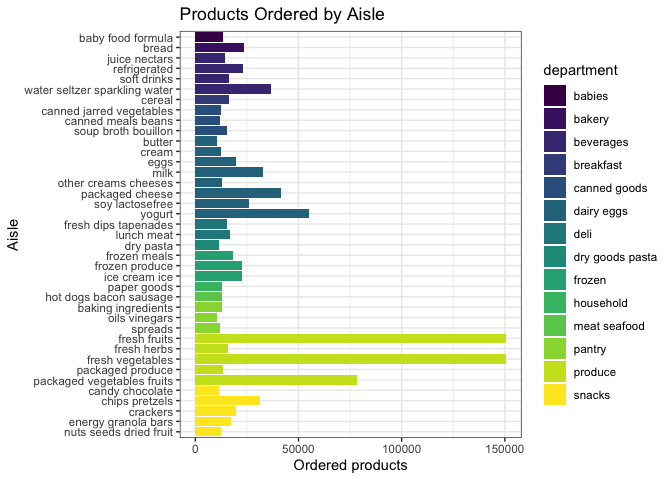
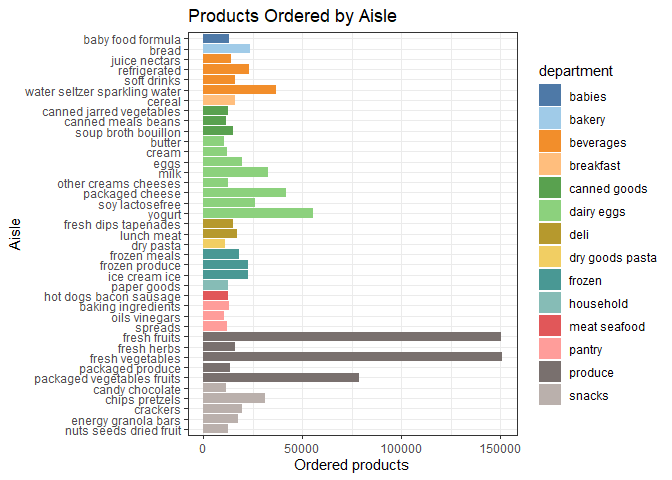
Finished problem 2. Added a results folder.

diff --git a/p8105_hw3_wd2328.md b/p8105_hw3_wd2328.md
@@ -6,6 +6,9 @@ William Donovan
 # Loading packages
 library(tidyverse)
 library(viridis)
+library(paletteer)
+library(ggridges)
+library(patchwork)
 ```
 
 # Problem 1
@@ -137,7 +140,7 @@ instacart |>
   mutate(aisle = fct_reorder(aisle, department)) |>
   ggplot(aes(y = aisle, x = ordered_items, fill = department)) +
   geom_col() +
-  scale_fill_viridis(name = "department", discrete = TRUE) +
+  scale_fill_manual(values = paletteer_d("ggthemes::Tableau_20")) +
   scale_y_discrete(limits = rev) +
   theme_bw() +
   labs(
@@ -147,6 +150,7 @@ instacart |>
 ```
 
 ![](p8105_hw3_wd2328_files/figure-gfm/unnamed-chunk-5-1.png)<!-- -->
+
 This visualization highlights the most heavily trafficked aisles across
 departments. As pointed out earlier, produce is the most commonly
 ordered from department. This is followed by dairy eggs. It’s also
@@ -295,3 +299,154 @@ problem2_df |>
 
 There were 171 ZIP codes in the dataset which were observed fewer than
 10 times.
+
+Due to the nature of variations in size and location, some ZIP codes may
+have more data than others. If there’s not a large enough rental sample
+size, the Zillow Observed Rent Index (ZORI) may not be accurate and is
+not reported. This is why some ZIP codes have ZORI observations for
+every month and others have very few.
+
+Below is the average rental price over time in each borough
+
+``` r
+problem2_df |>
+  filter(!is.na(zillow_observed_rent_index)) |>
+  group_by(county, 
+           Year = year(date)) |>
+  summarise(mean_rent = mean(zillow_observed_rent_index),
+            .groups = "drop") |>
+  pivot_wider(names_from = county,
+              values_from = mean_rent) |>
+  rename(Brooklyn = Kings,
+         Manhattan = 'New York',
+         'Staten Island' = Richmond) |>
+  knitr::kable()
+```
+
+| Year |    Bronx | Brooklyn | Manhattan |   Queens | Staten Island |
+|-----:|---------:|---------:|----------:|---------:|--------------:|
+| 2015 | 1759.595 | 2492.928 |  3022.042 | 2214.707 |            NA |
+| 2016 | 1520.194 | 2520.357 |  3038.818 | 2271.955 |            NA |
+| 2017 | 1543.599 | 2545.828 |  3133.848 | 2263.303 |            NA |
+| 2018 | 1639.430 | 2547.291 |  3183.703 | 2291.918 |            NA |
+| 2019 | 1705.589 | 2630.504 |  3310.408 | 2387.816 |            NA |
+| 2020 | 1811.443 | 2555.051 |  3106.517 | 2315.632 |      1977.608 |
+| 2021 | 1857.777 | 2549.890 |  3136.632 | 2210.787 |      2045.430 |
+| 2022 | 2054.267 | 2868.199 |  3778.375 | 2406.038 |      2147.436 |
+| 2023 | 2285.459 | 3015.184 |  3932.610 | 2561.615 |      2332.934 |
+| 2024 | 2496.896 | 3126.803 |  4078.440 | 2694.022 |      2536.442 |
+
+This table shows that rental prices have gone up every year since 2015,
+except for 2020, due to the Covid-19 pandemic. In 2020, rental prices
+decreased across New York City, but notably, the largest average
+decrease was in Manhattan. Staten Island does not have ZORI scores due
+to a lack of data from Richmond County before 2020.
+
+Comparing rental prices between ZIP codes over time:
+
+``` r
+# Set seed for randomized line plotting order
+set.seed(24)
+
+zip_code_rent = problem2_df |>
+  filter(!is.na(zillow_observed_rent_index)) |>
+  mutate(
+    Borough = case_match(county,
+      "New York" ~ "Manhattan",
+      "Richmond" ~ "Staten Island",
+      "Kings" ~ "Brooklyn",
+      .default = county)) |>
+  mutate(zip_code = forcats::fct_shuffle(as.factor(zip_code))) |>
+  ggplot(aes(x = date, 
+             y = zillow_observed_rent_index, 
+             group = zip_code)) +
+  geom_line(aes(color = Borough), 
+            linewidth = 0.8) +
+  scale_color_manual(values = c("Bronx" = "#4E79A7",
+                                "Brooklyn" = "#A0CBE8",
+                                "Manhattan" = "#F28E2B",
+                                "Queens" = "#E15759",
+                                "Staten Island" = "#59A14F"),
+                     name = "Borough") +
+  theme_bw() +
+  labs(
+    title = "NYC Rental Index by ZIP Code",
+    x = "Date",
+    y = "Zillow Observered Rent Index")
+
+zip_code_rent
+```
+
+![](p8105_hw3_wd2328_files/figure-gfm/unnamed-chunk-14-1.png)<!-- -->
+
+Each line in the plot above represents the rental index data of a single
+ZIP code in New York City. The lines are differentiated by color to
+designate which borough the ZIP code belongs to. The general trend is
+increasing rent. However, for nearly all NYC ZIP codes, there is a
+decrease in rent in 2020 due to the Covid-19 pandemic. This decrease is
+more pronounced in areas where rent is higher, such as Manhattan and
+Brooklyn ZIP codes. Rent for many ZIP codes in the Bronx, Queens, and
+Staten Island seemed to be less affected in 2020. From the plotted data,
+it can also be recognized that Manhattan has some of the most expensive
+areas, while the Bronx has some of the least.
+
+Distribution of average rental index from 2023:
+
+``` r
+rent_distribution = problem2_df |>
+  filter(!is.na(zillow_observed_rent_index),
+                year(date) == 2023) |>
+  mutate(
+    Borough = case_match(county,
+      "New York" ~ "Manhattan",
+      "Richmond" ~ "Staten Island",
+      "Kings" ~ "Brooklyn",
+      .default = county)) |>
+  group_by(zip_code, Borough) |>
+  summarise(mean_rent = mean(zillow_observed_rent_index),
+            .groups = "drop") |>
+  ggplot(aes(x = mean_rent, y = Borough)) +
+  geom_density_ridges(aes(fill = Borough),
+                      quantile_lines = TRUE,
+                      quantile_fun = median,
+                      alpha = 0.8) +
+  scale_fill_manual(values = c("Bronx" = "#4E79A7",
+                                "Brooklyn" = "#A0CBE8",
+                                "Manhattan" = "#F28E2B",
+                                "Queens" = "#E15759",
+                                "Staten Island" = "#59A14F"),
+                     name = "Borough") +
+  theme_bw() +
+  labs(
+    title = "Average Rental Index Distribution by Borough in 2023",
+    x = "Mean Zillow Observed Rent Index",
+    y = "Borough")
+
+rent_distribution
+```
+
+![](p8105_hw3_wd2328_files/figure-gfm/unnamed-chunk-15-1.png)<!-- -->
+
+The density ridges plot shows the distribution of average rental index
+across boroughs in 2023. In Staten Island, Queens, and the Bronx, the
+median rental index is between 2000 and 3000. Manhattan and Brooklyn
+have the widest distribution of rental indexes. Manhattan is the only
+borough with a median rental index above 4000. Manhattan also has a
+couple smaller peaks above 6000 and 7000, showing how expensive some
+areas in Manhattan can be. Brooklyn’s median rental index is just below
+3000, but there are many ZIP codes that have higher rental indexes, some
+reaching up around 5000.
+
+Combining plots:
+
+``` r
+combined_plot = zip_code_rent / rent_distribution
+
+combined_plot
+```
+
+![](p8105_hw3_wd2328_files/figure-gfm/unnamed-chunk-16-1.png)<!-- -->
+
+``` r
+ggsave("results/p2_combined.png", combined_plot)
+```
